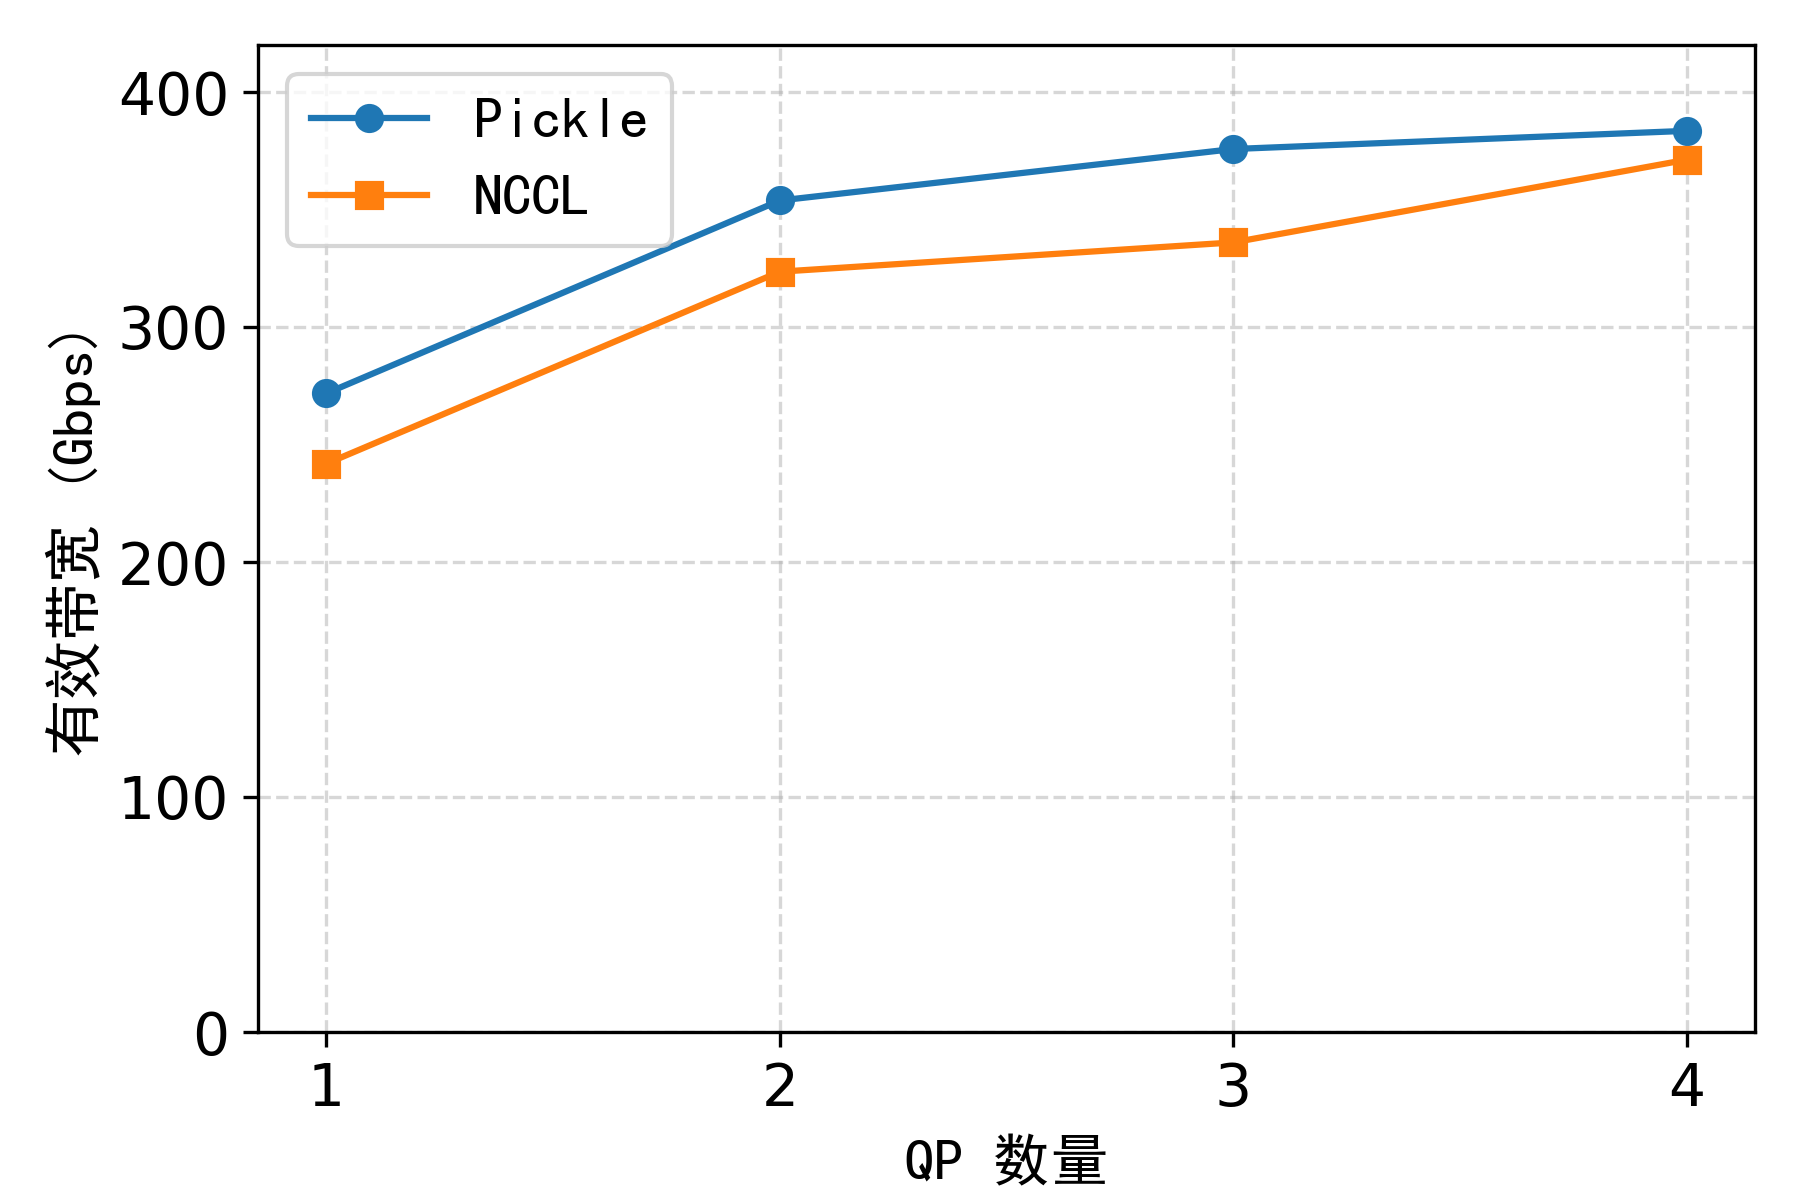
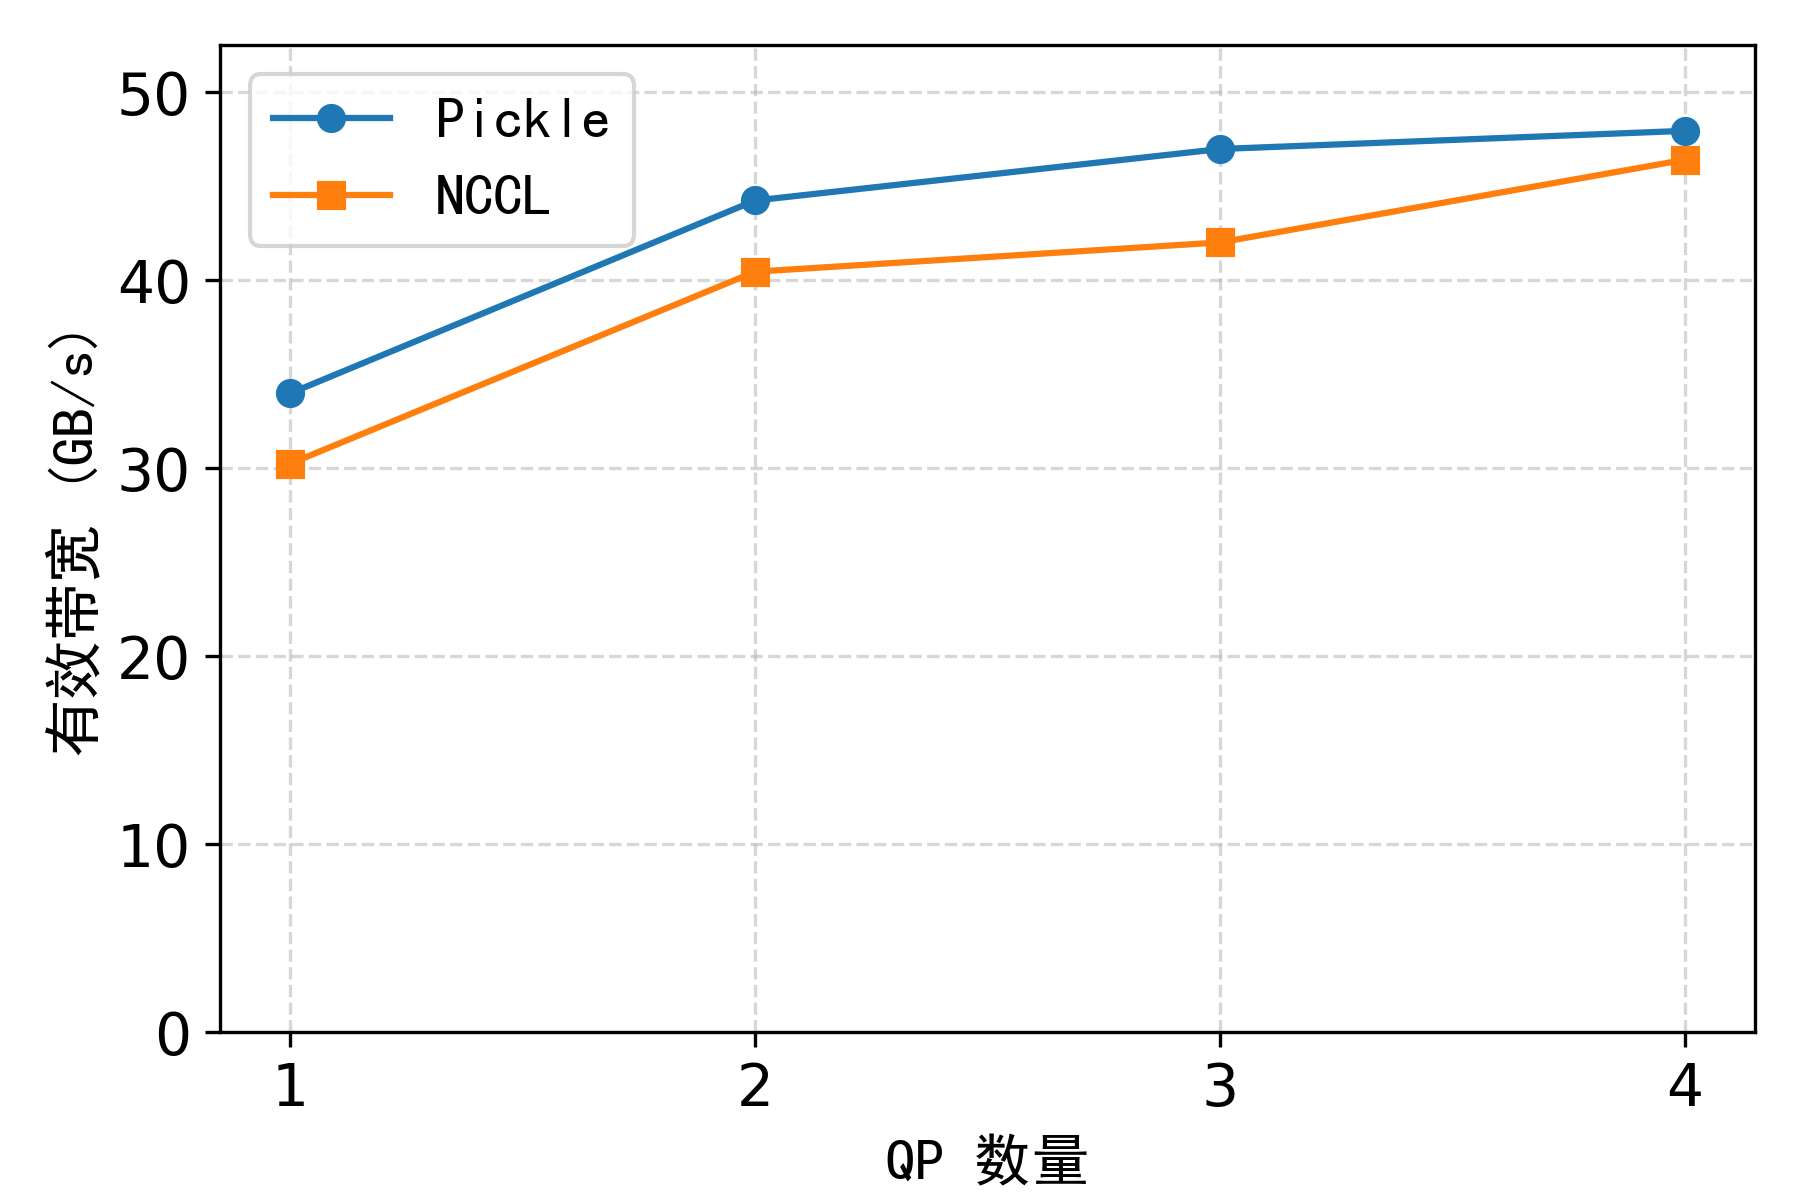
adjust figures

diff --git a/scripts/plot_allgather_size_vs_impact.py b/scripts/plot_allgather_size_vs_impact.py
@@ -29,6 +29,7 @@ import matplotlib.pyplot as plt
 from matplotlib.font_manager import FontProperties
 from matplotlib.ticker import MultipleLocator
 from pathlib import Path
+import random
 
 # ======================
 # Font config
@@ -173,6 +174,10 @@ rdma_perf = [d["relative_attn_perf"] for d in nccl_rdma_perf]
 sizes = nvlink_sizes
 size_labels = [bytes_to_label(s) for s in sizes]
 
+# Placeholder pickle data (to be replaced later)
+pickle_nvlink_perf = [random.uniform(0.99, 1.002) for _ in nvlink_sizes]
+pickle_rdma_perf = [random.uniform(0.99, 1.002) for _ in rdma_sizes]
+
 # ======================
 # Plot
 # ======================
@@ -181,7 +186,25 @@ fig, (ax_top, ax_bot) = plt.subplots(
     1,
     sharex=True,
     figsize=(7, 4),
-    gridspec_kw={"height_ratios": [3, 1], "hspace": 0.15},
+    gridspec_kw={"height_ratios": [3, 1.2], "hspace": 0.15},
+)
+
+# ---- No communication ----
+ax_top.axhline(
+    1.0, color="gray", linestyle="--", linewidth=1, label="No communication"
+)
+
+# ---- Pickle NVLink ----
+ax_top.plot(
+    nvlink_sizes,
+    pickle_nvlink_perf,
+    marker="^",
+    label="Pickle NVLink",
+)
+ax_bot.plot(
+    nvlink_sizes,
+    pickle_nvlink_perf,
+    marker="^",
 )
 
 # ---- NVLink ----
@@ -195,6 +218,19 @@ ax_bot.plot(
     nvlink_sizes,
     nvlink_perf,
     marker="o",
+)
+
+# ---- Pickle RDMA ----
+ax_top.plot(
+    rdma_sizes,
+    pickle_rdma_perf,
+    marker="D",
+    label="Pickle RDMA",
+)
+ax_bot.plot(
+    rdma_sizes,
+    pickle_rdma_perf,
+    marker="D",
 )
 
 # ---- RDMA ----
@@ -248,7 +284,16 @@ ax_bot.set_xticklabels(
 ax_bot.set_xlabel("消息大小", fontsize=font_size, fontproperties=font)
 ax_top.set_ylabel("相对计算性能", fontsize=font_size, fontproperties=font)
 
-ax_top.legend(loc="upper right", prop=font)
+handles, labels = ax_top.get_legend_handles_labels()
+fig.legend(
+    handles,
+    labels,
+    loc="upper center",
+    bbox_to_anchor=(0.5, 0.99),
+    ncol=3,
+    frameon=False,
+    prop=font,
+)
 
 # ======================
 # Save
@@ -258,6 +303,6 @@ output_path = (
     / "figures"
     / "relative_perf_vs_msg_size_broken_y.png"
 )
-fig.subplots_adjust(bottom=0.22)
+fig.subplots_adjust(bottom=0.22, top=0.82)
 fig.savefig(output_path, dpi=300)
 print(f"Saved plot to {output_path}")

diff --git a/scripts/plot_nvlink_p2p_bandwidth_vs_size.py b/scripts/plot_nvlink_p2p_bandwidth_vs_size.py
@@ -59,9 +59,9 @@ def main() -> None:
     ]
 
     fig, ax = plt.subplots(figsize=(7, 4))
-    ax.plot(sizes, pickle_bw, marker="o", label="Pickle")
-    ax.plot(sizes, nccl_bw, marker="s", label="NCCL")
-    ax.plot(sizes, pickle_wo_opt_bw, marker="^", label="Pickle w/o caching")
+    ax.plot(sizes, [x / 8 for x in pickle_bw], marker="o", label="Pickle")
+    ax.plot(sizes, [x / 8 for x in nccl_bw], marker="s", label="NCCL")
+    ax.plot(sizes, [x / 8 for x in pickle_wo_opt_bw], marker="^", label="Pickle w/o caching")
 
     ax.set_xscale("log", base=2)
     ax.set_xticks(sizes)
@@ -69,9 +69,9 @@ def main() -> None:
         size_labels, rotation=30, ha="right", fontsize=font_size, fontproperties=font
     )
     ax.set_xlabel("消息大小", fontsize=font_size, fontproperties=font)
-    ax.set_ylabel("有效带宽 (Gbps)", fontsize=font_size, fontproperties=font)
+    ax.set_ylabel("有效带宽 (GB/s)", fontsize=font_size, fontproperties=font)
     ax.tick_params(axis="both", which="both", labelsize=font_size)
-    ax.set_ylim(0, 3500)
+    ax.set_ylim(0, 450)
     ax.grid(True, which="both", linestyle="--", alpha=0.5)
     ax.legend(prop=font)
     fig.tight_layout()

diff --git a/scripts/plot_cdf.py b/scripts/plot_cdf.py
@@ -9,7 +9,7 @@ import matplotlib.pyplot as plt
 from matplotlib.font_manager import FontProperties
 from matplotlib.gridspec import GridSpec
 
-font_size = 14
+font_size = 18
 repo_root = Path(__file__).resolve().parent.parent
 
 TTFT_PICKLE_CSV = repo_root / "data" / "ttft_cdf_pickle.csv"
@@ -110,7 +110,7 @@ def main() -> None:
     )
     ax_ttft.set_title("TTFT CDF", fontsize=font_size, fontproperties=font)
     ax_ttft.set_xlabel(
-        "首 Token 延迟 TTFT (ms)", fontsize=font_size, fontproperties=font
+        "首令牌延迟 TTFT (ms)", fontsize=font_size, fontproperties=font
     )
     ax_ttft.set_ylabel("CDF", fontsize=font_size, fontproperties=font)
     ax_ttft.tick_params(axis="both", which="both", labelsize=font_size)
@@ -132,7 +132,7 @@ def main() -> None:
     )
     ax_tbt.set_title("TBT CDF", fontsize=font_size, fontproperties=font)
     ax_tbt.set_xlabel(
-        "Token 间隔延迟 TBT (ms)", fontsize=font_size, fontproperties=font
+        "令牌间隔时间 TBT (ms)", fontsize=font_size, fontproperties=font
     )
     ax_tbt.tick_params(axis="both", which="both", labelsize=font_size)
     ax_tbt.grid(True, linestyle="--", alpha=0.5)

diff --git a/scripts/plot_ipchandle_overhead.py b/scripts/plot_ipchandle_overhead.py
@@ -74,8 +74,12 @@ def main() -> None:
 
     fig, ax = plt.subplots(figsize=(8, 4))
 
-    ax.plot(sizes, open_us, marker="o", label="cudaIpcOpenMemHandle")
-    ax.plot(sizes, close_us, marker="s", label="cudaIpcCloseMemHandle")
+    ax.plot(
+        sizes, [x / 1000 for x in open_us], marker="o", label="cudaIpcOpenMemHandle"
+    )
+    ax.plot(
+        sizes, [x / 1000 for x in close_us], marker="s", label="cudaIpcCloseMemHandle"
+    )
 
     ax.set_xscale("log", base=2)
     ax.set_xticks(sizes)
@@ -84,10 +88,10 @@ def main() -> None:
     )
 
     ax.set_xlabel("缓冲区大小", fontsize=font_size, fontproperties=font)
-    ax.set_ylabel("延迟 (微秒)", fontsize=font_size, fontproperties=font)
+    ax.set_ylabel("延迟 (ms)", fontsize=font_size, fontproperties=font)
     ax.tick_params(axis="both", which="both", labelsize=font_size)
     ax.set_ylim(bottom=0)
-    ax.yaxis.set_major_locator(MultipleLocator(2000))
+    ax.yaxis.set_major_locator(MultipleLocator(2))
 
     ax.grid(True, which="both", linestyle="--", alpha=0.5)
     ax.legend(prop=font)

diff --git a/scripts/plot_rdma_p2p_bandwidth_vs_size.py b/scripts/plot_rdma_p2p_bandwidth_vs_size.py
@@ -69,8 +69,8 @@ def main() -> None:
     ]
 
     fig, ax = plt.subplots(figsize=(8, 4))
-    ax.plot(sizes, pickle_bw, marker="o", label="Pickle")
-    ax.plot(sizes, nccl_bw, marker="s", label="NCCL")
+    ax.plot(sizes, [x / 8 for x in pickle_bw], marker="o", label="Pickle")
+    ax.plot(sizes, [x / 8 for x in nccl_bw], marker="s", label="NCCL")
 
     ax.set_xscale("log", base=2)
     ax.set_xticks(sizes)
@@ -78,9 +78,9 @@ def main() -> None:
         size_labels, rotation=30, ha="right", fontsize=font_size, fontproperties=font
     )
     ax.set_xlabel("消息大小", fontsize=font_size, fontproperties=font)
-    ax.set_ylabel("有效带宽 (Gbps)", fontsize=font_size, fontproperties=font)
+    ax.set_ylabel("有效带宽 (GB/s)", fontsize=font_size, fontproperties=font)
     ax.tick_params(axis="both", which="both", labelsize=font_size)
-    ax.set_ylim(0, 420)
+    ax.set_ylim(0, 420 / 8)
     ax.grid(True, which="both", linestyle="--", alpha=0.5)
     ax.legend(prop=font)
     fig.tight_layout()

diff --git a/scripts/plot_requests_per_second.py b/scripts/plot_requests_per_second.py
@@ -6,7 +6,7 @@ from dataclasses import dataclass
 from datetime import datetime
 from pathlib import Path
 
-font_size = 14
+font_size = 16
 repo_root = Path(__file__).resolve().parent.parent
 
 # ======= Input / output paths (edit here) =======
@@ -68,13 +68,13 @@ def main() -> None:
 
     max_s = max(counts_by_second)
     xs = list(range(max_s + 1))
-    ys = [counts_by_second.get(s, 0) for s in xs]
+    ys = [counts_by_second.get(s, 0) / 2 for s in xs]
 
     fig, ax = plt.subplots(figsize=(10, 4))
     ax.bar(xs, ys, width=1.0, align="edge", color="#4C78A8", edgecolor="none")
 
     ax.set_xlabel("时间 (分钟)", fontsize=font_size, fontproperties=font)
-    ax.set_ylabel("每秒请求数（请求/秒）", fontsize=font_size, fontproperties=font)
+    ax.set_ylabel("请求速率（请求/秒）", fontsize=font_size, fontproperties=font)
     ax.tick_params(axis="both", which="both", labelsize=font_size)
     ax.set_xlim(0, 300)
     ax.set_ylim(bottom=0)

diff --git a/scripts/plot_rdma_p2p_bandwidth_vs_qp.py b/scripts/plot_rdma_p2p_bandwidth_vs_qp.py
@@ -16,14 +16,14 @@ def main() -> None:
     nccl_bw = [241.83, 323.54, 336.00, 371.20]
 
     fig, ax = plt.subplots(figsize=(6, 4))
-    ax.plot(qps, pickle_bw, marker="o", label="Pickle")
-    ax.plot(qps, nccl_bw, marker="s", label="NCCL")
+    ax.plot(qps, [x / 8 for x in pickle_bw], marker="o", label="Pickle")
+    ax.plot(qps, [x / 8 for x in nccl_bw], marker="s", label="NCCL")
 
     ax.set_xlabel("QP 数量", fontsize=font_size, fontproperties=font)
-    ax.set_ylabel("有效带宽 (Gbps)", fontsize=font_size, fontproperties=font)
+    ax.set_ylabel("有效带宽 (GB/s)", fontsize=font_size, fontproperties=font)
     ax.tick_params(axis="both", which="both", labelsize=font_size)
     ax.set_xticks(qps)
-    ax.set_ylim(0, 420)
+    ax.set_ylim(0, 420 / 8)
     ax.grid(True, linestyle="--", alpha=0.5)
     ax.legend(prop=font)
     fig.tight_layout()

diff --git a/scripts/plot_token_throughput.py b/scripts/plot_token_throughput.py
@@ -78,7 +78,7 @@ def main() -> None:
     ax.plot(pickle_timestamps_ms, pickle_duration_ms, label="Pickle NVLink")
     ax.plot(nccl_timestamps_ms, nccl_duration_ms, label="NCCL NVLink")
     ax.set_xlabel("时间（ms）", fontsize=font_size, fontproperties=font)
-    ax.set_ylabel("Token 间隔延迟（ms）", fontsize=font_size, fontproperties=font)
+    ax.set_ylabel("令牌间隔时间 TBT（ms）", fontsize=font_size, fontproperties=font)
     ax.tick_params(axis="both", which="both", labelsize=font_size)
     ax.set_ylim(bottom=0, top=35)
     output_path = (
